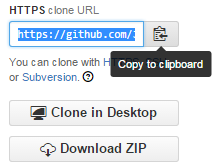
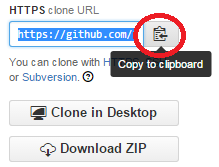
add image work for PP

Changed region(s): [[0.6027, 0.0599, 0.8493, 0.3593]]

diff --git a/Git/Create.html b/Git/Create.html
@@ -1,31 +1,50 @@
 ---
 layout: page
 ---
+<div class="jumbotron">
+  <div class="container">
+    <h1>Create a Repository on Github</h1>
+    <p>The free and public version control system on Github hosts millions of static file collections.</p>
+  </div>
+</div>
 <div class="container">
-  <p>Create a <a href="https://github.com/" target="_blank">Github</a> account.</p>
-  <p>Login. Create a new repository. Call it Camp.</p>
-  <img src="../img/new-repository.png" />
-  <p>Initialize your repository with a README, and select Processing from the list.</p>
+  <h2>Create a Github Account</h2>
+  <p>Visit <a href="https://github.com/" target="_blank">https://github.com/</a> and create a free account.</p>
+  <h2>Create a New Repository on Github</h2>
+  <p>Login. Click the <img src="../img/new-repository.png" /> button. Call it <em>Camp</em> or whatever you like.</p>
+  <p>Check the <strong>Initialize this repository with a README</strong> check box, and select <strong>Processing</strong> from the list.</p>
   <img src="../img/repo-creation.png" />
-  <p>Copy your repository's URL.</p>
+  <h2>Copy the URL</h2>
   <img src="../img/github-url.png" />
-  <p>Open Git Bash from the Start Menu.</p>
-  <p>Create a new directory on the H: drive. Call it git.</p>
-  <p>
-    <code>cd /h/
-      <br />
-      mkdir git
-      <br />
-      cd git</code>
-  </p>
-  <p>Clone your project.</p>
-  <p>
-    <code>git clone &lt;your url goes here&gt; &lt;your name goes here&gt;</code>
-    <br />
-    example: <code>git clone https://github.com/Clark/Camp.git MyCampProject</code>
-  </p>
-  <p>Go into your project in Git Bash.</p>
-  <p><code>cd &lt;your name from above goes here&gt;</code></p>
-  <p>Your shell should look like this.</p>
+  <h2>Open Git Bash</h2>
+  <p>Open <strong>Git Bash</strong> from <strong>Start Menu > All Programs > Git > Git Bash</strong></p>
   <img src="../img/git-bash.png" />
+  <h2>Create Local Folders</h2>
+  <p>Enter these commands in order. Press enter after each line.</p>
+  <table class="table-code-listing">
+    <tr>
+      <td><code>cd /h/</code></td>
+      <td><code>cd</code> means "change directory" and in this case you're navigating to your H: drive in Windows. Alternatively you could consider doing <code>cd /c/</code> to navigate to your C: drive.</td>
+    </tr>
+    <tr>
+      <td><code>mkdir MyNameOrSomething</code></td>
+      <td><code>mkdir</code> means "make directory" or in more familiar terms "make folder" and the second part, MyNameOrSomething is simply a name you get to give it. What you enter for the name does not matter.</td>
+    </tr>
+    <tr>
+      <td><code>cd MyNameOrSomething</code></td>
+      <td>Again, using the "change directory" command, we are simply navigating somewhere. In this case, we are navigating or "changing directory" to the folder we just made, MyNameOrSomething.</td>
+    </tr>
+  </table>
+  <h2>Clone Your Repository</h2>
+  <p>Recall we previously copied our remote repository's URL above. The command format is as follows:</p>
+  <p><code>git clone &lt;github-url&gt; &lt;any-name-you-choose&gt;</code></p>
+  <p>example:<br /><code>git clone https://github.com/Clark/Camp.git MyCampProject</code></p>
+  <p>Pasting in Git Bash isn't obvious. To do it, follow these steps:</p>
+  <img src="../img/git-edit-paste.png" />
+  <h2>Change Directory, Again</h2>
+  <p><code>cd &lt;your-cloned-folder-name-from-above&gt;</code></p>
+  <p>All these commands in one shell looks like this:</p>
+  <img src="../img/git-bash.png" />
+  <h2>So, What Just Happened?</h2>
+  <p>We created a couple folders, and copied our project on Github into one of them. We can navigate to it using Windows Explorer which has this icon: <img src="../img/windows-explorer-icon.png" /></p>
 </div>

diff --git a/index.html b/index.html
@@ -12,18 +12,24 @@ layout: default
   <div class="row">
     <div class="col-md-4">
       <h2>Processing 2D</h2>
+      <p>June 1 - 11, Mon - Thur</p>
       <p>Sketch and animate 2D graphics in the Processing language. An introduction or review of programming fundamentals: variables, functions, and object oriented design.</p>
-      <p><a class="btn btn-primary btn-lg" href="Processing2D/" role="button">Begin</a></p>
+      <p><a class="btn btn-primary btn-lg" href="Processing2D/" role="button">Completed</a></p>
     </div>
     <div class="col-md-4">
       <h2>Pixel Processing</h2>
+      <p>June 15 - 18</p>
       <p>Explore programmatic manipulation of images pixel by pixel. Apply photo effects: blending, transformation, tint, transparency, opacity, hue, saturation, brightness, erosion, dilation, posterization, greyscale, color inversion.</p>
-      <p><a class="btn btn-default not-active" href="#" role="button">June 15</a></p>
+      <p><a class="btn btn-primary btn-lg" href="PixelProcessing/" role="button">Begin</a></p>
     </div>
     <div class="col-md-4">
       <h2>Web Design</h2>
+      <p>June 22 - 25</p>
       <p>Learn or review the basics of web design in this crash course on HTML, CSS, and Javascript.  Regard the challenge of designing content for a variety of devices and platforms in what is commonly referred to as responsive web design.</p>
       <p><a class="btn btn-default not-active" href="#" role="button">June 22</a></p>
     </div>
+  </div>
+  <div class="row">
+    <p>Note: This is companion material used during attendance of the event. It is meant in no way to be a complete reference for building and completing related projects. Feel free to email jwclark at rockhursths.edu with any questions, especially the campers who work on related projects outside of this summer session.</p>
   </div>
 </div>

diff --git a/PixelProcessing/Setup.html b/PixelProcessing/Setup.html
@@ -1,0 +1,30 @@
+---
+layout: page
+---
+<div class="jumbotron">
+  <div class="container">
+    <h1>Setup & Introduction</h1>
+  </div>
+</div>
+<div class="container">
+  <h2>Open Processing</h2>
+  <p>Open <strong>Processing</strong> from <strong>Start Menu > All Programs > Processing</strong></p>
+  <p>By now, you should have already created a repository on Github and cloned it into the local file system. If you haven't, be sure to complete <a href="../Git/Create.html">these steps</a>.</p>
+  <h2>Save Processing</h2>
+  <p><strong>File > Save As</strong></p>
+  <p>Navigate to where your local Github project was cloned, and save this blank sketch as <strong>PixelProcessing</strong>. Your file system should now look like this:</p>
+  <img src="../img/pp-explorer-01.png" />
+  <p>Inside the PixelProcessing folder should look like this:</p>
+  <img src="../img/pp-explorer-02.png" />
+  <h2>Our First Image</h2>
+  <p>To get everyone on the same page, let's start with the same image. This is Saint Ignatius working at his desk.</p>
+  <img src="../img/ignatius.jpg" />
+  <p>To do so, simply drag the image from this web page and drop it on top of your Processing sketch.</p>
+  <p>Notice your file system has changed. A <strong>data</strong> folder was created...</p>
+  <img src="../img/pp-explorer-03.png" />
+  <p>... and in it there is now this ignatius.jpg:</p>
+  <img src="../img/pp-explorer-04.png" />
+  <p>Next, we turn our focus to pixels. This particular image is 444 pixels wide and 377 pixels high, totaling 444 x 377 = 167,388 total pixels.</p>
+  <p>Let's write some code that uses this image.</p>
+  <a class="btn btn-primary btn-lg" href="Images.html" role="button">Working with Images</a>
+</div>

diff --git a/PixelProcessing/Images.html b/PixelProcessing/Images.html
@@ -1,0 +1,49 @@
+---
+layout: page
+---
+<div class="jumbotron">
+  <div class="container">
+    <h1>Working with Images</h1>
+    <p>This is Pixel Processing! Let's take a look at working with our first image.</p>
+  </div>
+</div>
+<div class="container">
+  <h2>Basic Image Display</h2>
+  <p>This code displays an image in its actual size. Try it out. Note the <code>image()</code> method takes <strong>three</strong> parameters.</p>
+  <div class="row">
+    <div class="col-md-6">
+      <img src="../img/p-code-01.png" />
+    </div>
+    <div class="col-md-6">
+      <img src="../img/p-code-sc-01.png" />
+    </div>
+  </div>
+  <h2>Tiling an Image</h2>
+  <p>This is a 2x2 image tiling pattern. Note the <code>image()</code> method takes <strong>five</strong> parameters.</p>
+  <div class="row">
+    <div class="col-md-6">
+      <img src="../img/p-code-02.png" />
+    </div>
+    <div class="col-md-6">
+      <img src="../img/p-code-sc-02.png" />
+    </div>
+  </div>
+  <p>So far so good, but if we keep progressing like this as we change our code every time, we won't have much to re-use as we move forward.</p>
+  <h2>The ImageTool Class</h2>
+  <p>Let's store our functions in another class so we may continue to re-use them.</p>
+  <div class="row">
+    <div class="col-md-6">
+      <img src="../img/p-code-03.png" />
+    </div>
+    <div class="col-md-6">
+      <img src="../img/p-code-sc-03.png" />
+    </div>
+  </div>
+
+</div>
+
+
+<!--
+
+  imageMode
+-->

diff --git a/Processing2D/Inheritance.html b/Processing2D/Inheritance.html
@@ -4,10 +4,8 @@ layout: page
 <div class="jumbotron">
   <div class="container">
     <h1>Classes & Inheritance: The Sprite Object</h1>
-    <p>
-      In computer graphics, a sprite (also known by other names; see Synonyms below) is a two-dimensional image or animation that is integrated into a larger scene. Initially including just graphical objects handled separately from the memory bitmap of a video display, this now includes various manners of graphical overlays.<br />
-      source: Wikipedia
-    </p>
+    <p>In computer graphics, a sprite (also known by other names; see Synonyms below) is a two-dimensional image or animation that is integrated into a larger scene. Initially including just graphical objects handled separately from the memory bitmap of a video display, this now includes various manners of graphical overlays.<br />
+      source: Wikipedia</p>
   </div>
 </div>
 <div class="container">

diff --git a/Git/index.html b/Git/index.html
@@ -9,10 +9,8 @@ layout: page
   </div>
 </div>
 <div class="container">
-  <div>
-    <a class="btn btn-primary btn-lg" href="Create.html" role="button">Create</a>
-    <a class="btn btn-primary btn-lg" href="Push.html">Push</a>
-    <a class="btn btn-primary btn-lg" href="Fork.html">Fork</a>
-  </div>
+  <p>These topics center around Git Bash. Find it in Start Menu > All Programs > Git > Git Bash. If you're doing this from home, you can download and install the software from <a href="https://git-scm.com/download/win" target="_blank">https://git-scm.com/download/win</a>. It's free!</p>
+  <a class="btn btn-primary btn-lg" href="Create.html" role="button">Create</a>
+  <a class="btn btn-primary btn-lg" href="Push.html">Push</a>
+  <a class="btn btn-primary btn-lg" href="Fork.html">Fork</a>
 </div>
-

diff --git a/Processing2D/index.html b/Processing2D/index.html
@@ -9,6 +9,7 @@ layout: page
 </div>
 
 <div class="container">
+  <p>This project is completed. <a href="https://github.com/JamesWClark/CFC2015">Fork it on Github</a>!</p>
   <p>The ultimate goal here is to build a game like Space Invaders. We won&#39;t create an exact copy but we will approach the concept. Before we can build a game like this, we must first develop a clear set of objectives. Here is a list of tasks we need to accomplish in code in order to make this game run:</p>
   <ul>
     <li>Create game graphics</li>

diff --git a/PixelProcessing/index.html b/PixelProcessing/index.html
@@ -8,5 +8,7 @@ layout: page
   </div>
 </div>
 <div class="container">
-
+  <p>This is Pixel Processing. Before we can start manipulating pixels, we need to first discuss what pixels are and how they're stored in data. Also, for those attending for the first time this week, we need to get familiar with Processing.</p>
+  <a class="btn btn-primary btn-lg" href="Setup.html" role="button">Setup & Intro</a>
+  <a class="btn btn-primary btn-lg" href="Images.html" role="button">Images</a>
 </div>

diff --git a/Processing2D/Graphics.html b/Processing2D/Graphics.html
@@ -1,6 +1,11 @@
 ---
 layout: page
 ---
+<div class="jumbotron">
+  <div class="container">
+    <h1>Graphics & PShape</h1>
+  </div>
+</div>
 <div class="container">
   <div class="row">
     <p>Since this is a game we'll need a few objects to move around the screen. In the very least, we need a player controlled ship, the enemy ship, and a projectile to fire back and forth. It's easy to imagine and in fact here are three such examples:</p>

diff --git a/css/main.css b/css/main.css
@@ -103,10 +103,26 @@ code {
     font-size: .9em;
 }
 img {
+	border: solid navy 1px;
     max-width: 100%;
 }
 p {
     padding: 7px 0 7px 0;
+}
+strong{
+	color: #5858FA;
+}	
+
+.center {
+    text-align: center;
+}
+
+.table-code-listing td {
+	padding: 7px;
+	border: solid #BDBDBD 1px;
+}
+.table-code-listing td:first-child {
+	white-space: nowrap;
 }
 
 .container .row .col-md-3 img, .container .row .col-md-4 img {

diff --git a/Processing2D/GameLevels.html b/Processing2D/GameLevels.html
@@ -1,6 +1,12 @@
 ---
 layout: page
 ---
+<div class="jumbotron">
+  <div class="container">
+    <h1>Game Levels</h1>
+    <p>Here, we embed the logic of one game level in its own class.</p>
+  </div>
+</div>
 <div class="container">
   <h2>Level</h2>
   <code><pre>interface Level {
